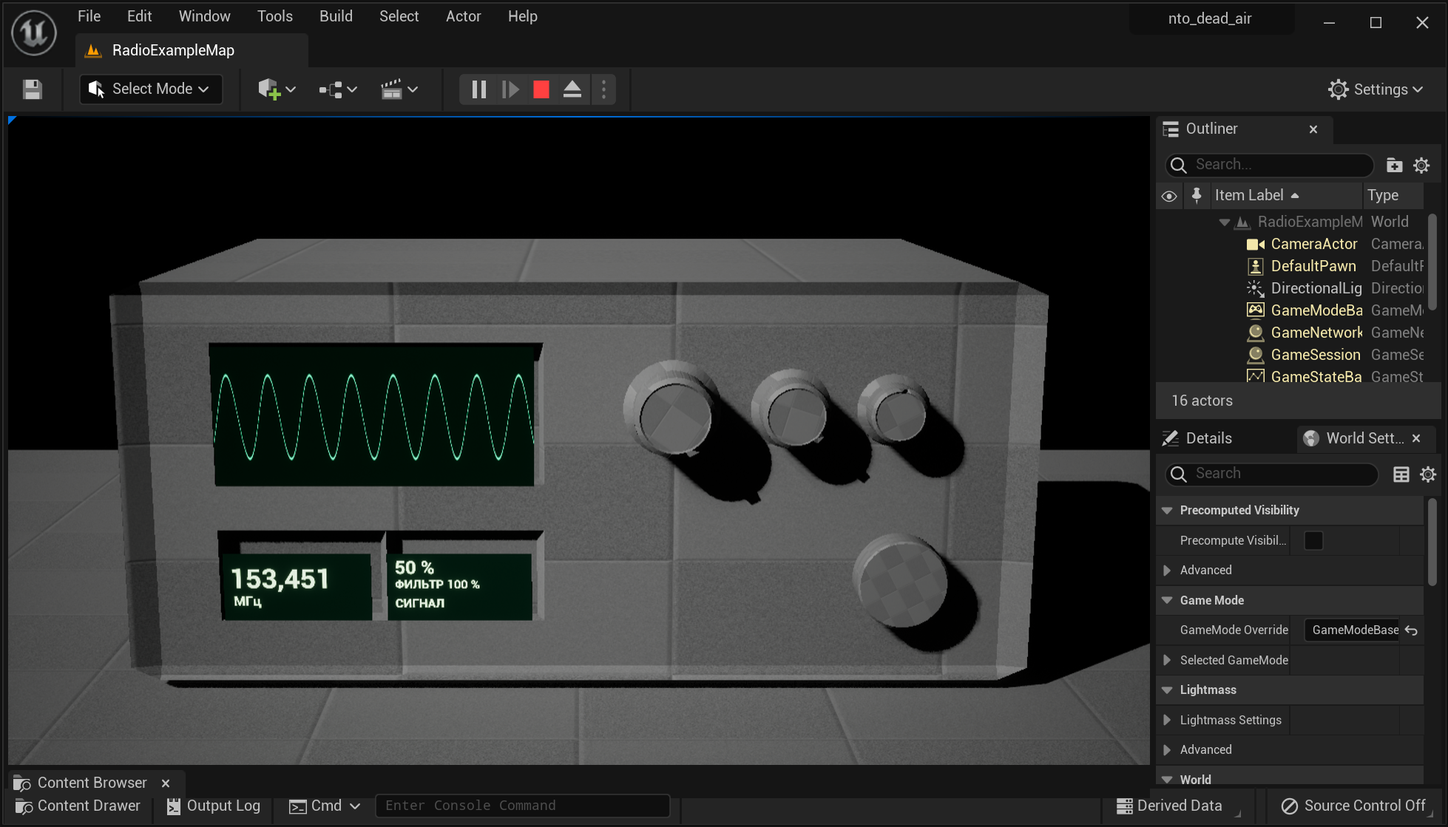
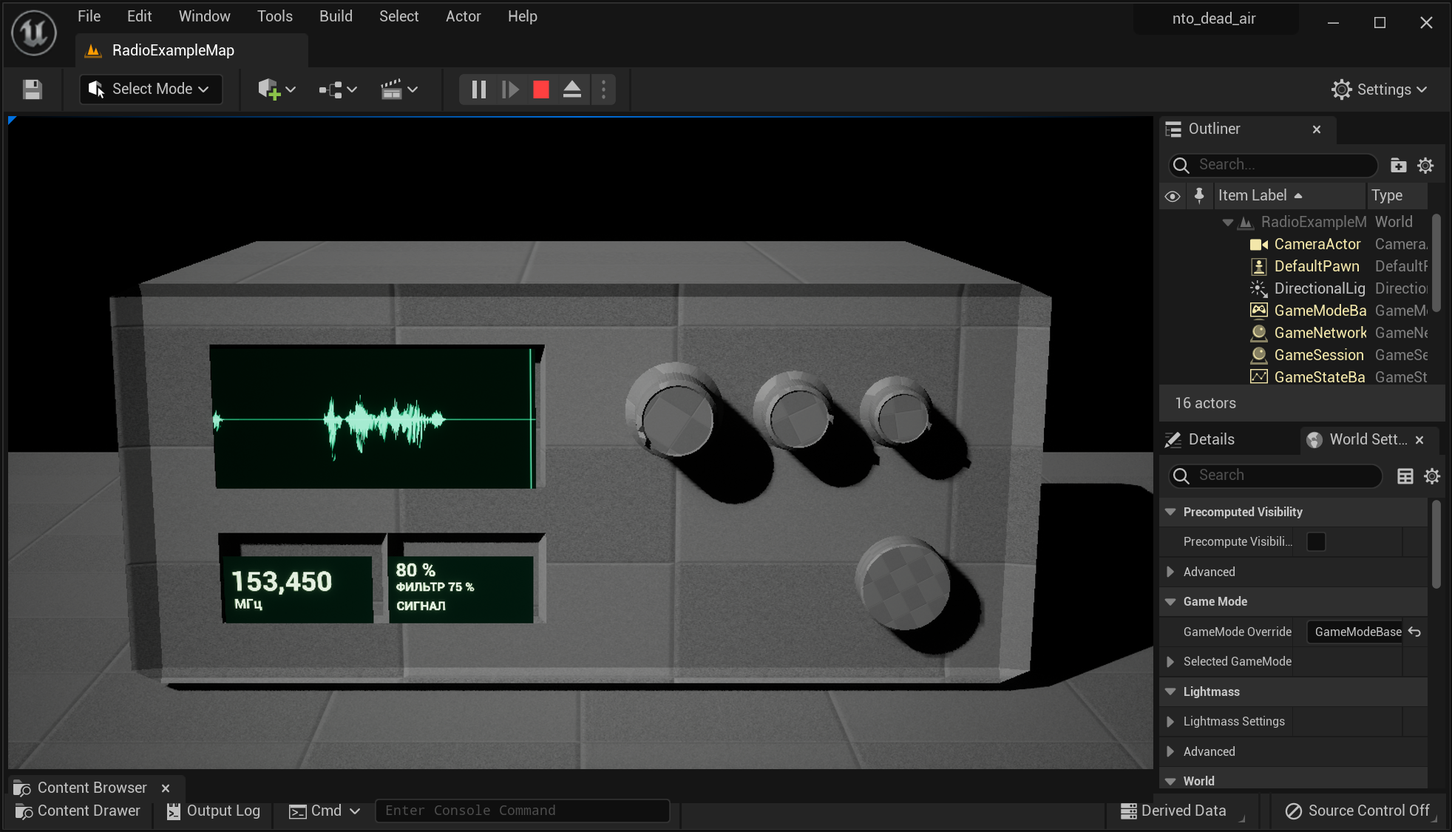
Уточнить радио: точный поворот, фильтр по сигналу и непрерывный эфир
Снижена чувствительность значений с поворотом мешей 1:1; центр ввода перенесён на лицевую крышку. Фильтр заблокирован без захвата станции. На сигнале отображается бегущая min/max-осциллограмма PCM-записи, синхронизированная с OnAudioPlaybackPercent.

Эфир запускается однократно и идёт при перенастройке/OFF; приёмник меняет только уровни. Обновлены инструкция Славе и снимок.

Проверено в UE 5.0.3: 23 проверки сохранённого Blueprint, 11 проверок реального воспроизведения в PIE и круговые жесты мышью. Windows-сборка не проверялась.

diff --git a/Tools/RadioBuilder/Source/RadioBuilder/Private/RadioBuilder.cpp b/Tools/RadioBuilder/Source/RadioBuilder/Private/RadioBuilder.cpp
@@ -1,4 +1,11 @@
 #include "CoreMinimal.h"
+#include "Audio.h"
+#include "Engine/Texture2D.h"
+#include "Misc/FileHelper.h"
+#include "Misc/Paths.h"
+#include "Materials/MaterialExpressionTextureSample.h"
+#include "Materials/MaterialExpressionAppendVector.h"
+#include "Materials/MaterialExpressionLinearInterpolate.h"
 #include "Materials/Material.h"
 #include "Materials/MaterialInstanceDynamic.h"
 #include "Materials/MaterialExpressionConstant.h"
@@ -104,6 +111,6 @@ UTextBlock* Label(UCanvasPanel* Canvas,const TCHAR* Name,FString Value,float X,f
 }
 #include "RadioFinal.inl"
 class FRadioBuilderModule : public IModuleInterface {
-public: void StartupModule() override { if(FParse::Param(FCommandLine::Get(),TEXT("RadioFinal"))||FParse::Param(FCommandLine::Get(),TEXT("RadioPolish"))) { FTSTicker::GetCoreTicker().AddTicker(FTickerDelegate::CreateLambda([](float){ if(FParse::Param(FCommandLine::Get(),TEXT("RadioPolish")))FinalRadio::PolishGraphs(); else FinalRadio::Build(); FPlatformMisc::RequestExit(false); return false; }),2.f); } }
+public: void StartupModule() override { if(FParse::Param(FCommandLine::Get(),TEXT("RadioLiveVerify")))FTSTicker::GetCoreTicker().AddTicker(FTickerDelegate::CreateLambda([](float){return FinalRadio::VerifyLivePIE();}),.1f); if(FParse::Param(FCommandLine::Get(),TEXT("RadioFinal"))||FParse::Param(FCommandLine::Get(),TEXT("RadioPolish"))) { FTSTicker::GetCoreTicker().AddTicker(FTickerDelegate::CreateLambda([](float){ if(FParse::Param(FCommandLine::Get(),TEXT("RadioPolish")))FinalRadio::PolishGraphs(); else FinalRadio::Build(); FPlatformMisc::RequestExit(false); return false; }),2.f); } }
 };
 IMPLEMENT_MODULE(FRadioBuilderModule,RadioBuilder)

diff --git a/docs/TEAM_TASKS.md b/docs/TEAM_TASKS.md
@@ -20,14 +20,14 @@
 
 ### Ближайшее задание: проверить и закончить существующее радио
 
-**Обновление 19.11:** по уточнениям Doki переделан учебный образец в `Content/RadioExample`: удержание ЛКМ и круговое движение вокруг центра ручки вместо кликов по 5 кГц и линейного drag, радиоволна в верхнем окне, частота и громкость/фильтр/статус в нижних. Славе начать с карты и графов по разделу 11 [плана UE](UE5_ARCHITECTURE.md). Исходные `Radio_1`/`ThirdPersonMap` не заменены. Следующая работа Славы — перенести проверенную логику в основной маршрут и подключить первую квитанцию; весь рабочий цикл ещё не принят.
+**Обновление 19.11:** по уточнениям Doki переделан учебный образец в `Content/RadioExample`: удержание ЛКМ и круговое движение вокруг центра ручки вместо кликов по 5 кГц и линейного drag, сниженная чувствительность с поворотом 1:1, фильтр только при сигнале и бегущая осциллограмма реальной записи в верхнем окне, частота и громкость/фильтр/статус в нижних. Славе начать с карты и графов по разделу 11 [плана UE](UE5_ARCHITECTURE.md). Исходные `Radio_1`/`ThirdPersonMap` не заменены. Следующая работа Славы — перенести проверенную логику в основной маршрут и подключить первую квитанцию; весь рабочий цикл ещё не принят.
 
 Основа — [первая механика радио из текущей dev](https://github.com/Doki33935/DEAD-AIR/blob/1adb555845feca86aebab1025e70e5aebdfe26df/docs/RADIO_FIRST_TASK.md). Сначала показать этот результат отдельно от будущих почты и таймера.
 
 1. Открыть существующий `nto_dead_air.uproject` именно в **5.0.3**, проверить `ThirdPersonMap`, `Radio_1`, `test_char`, `main_wid`, `BPI_interface` и `Interact_face`: что уже работает, что не компилируется, где обрабатываются клики. Не создавать второй проект и не переименовывать ассеты только ради имён из плана UE.
-2. Проверить `button_1`: питание, индикатор, немедленная остановка речи и шума при OFF. Подключить `Tumbler_1` к дробной частоте 153400–153550 кГц через удержание ЛКМ и круговое движение мыши; отображение — в МГц с тремя знаками. Прежний кликовый шаг 5 кГц отменён Doki 19 ноября. Раскладка экрана и схема уже сделаны в образце.
+2. Проверить `button_1`: питание, индикатор, немедленное отключение звукового выхода при OFF с сохранением времени эфира. Подключить `Tumbler_1` к дробной частоте 153400–153550 кГц через удержание ЛКМ и круговое движение мыши; отображение — в МГц с тремя знаками. Прежний кликовый шаг 5 кГц отменён Doki 19 ноября. Раскладка экрана и схема уже сделаны в образце.
 3. Подключить одну передачу базы на 153450 кГц из данных и временный клип с номером 27. При уходе с канала речь не продолжает звучать как чистый приём; соседние частоты дают шум.
-4. По заданию из dev проверить отдельный `Radio_Volume_Knob` на карте. Перенести `SM_Radio_Volume` в компоненты `Radio_1` с сохранением привязки; удалять дублирующий актор только после проверки нового компонента. Громкость управляет речью и шумом. `Tumbler_2` теперь управляет фильтром речи 0–100%: перенести разделение голоса/помех из образца, проверить отсутствие перезапуска реплики при регулировке.
+4. По заданию из dev проверить отдельный `Radio_Volume_Knob` на карте. Перенести `SM_Radio_Volume` в компоненты `Radio_1` с сохранением привязки; удалять дублирующий актор только после проверки нового компонента. Громкость управляет речью и шумом. `Tumbler_2` теперь управляет фильтром речи 0–100%: перенести разделение голоса/помех из образца, проверить блокировку фильтра без сигнала и продолжение эфира после ухода с частоты/возврата и OFF/ON.
 5. Обеспечить приближение и возврат мышью. Проверить крайние частоты и повторные клики, питание во время фразы, громкость 0/максимум и возврат к радио. Показать маршрут: соседний канал → шум → 153,450 → «27» → уход с частоты → повтор вызова → OFF.
 
 **Передать Doki:** короткий показ в редакторе и Windows-сборке, commit и перечень исправных/непроверенных действий. После приёмки радио расширять до первой квитанции по шагу A. Наличие модели и Blueprint в Git ещё не закрывает это задание.

diff --git a/docs/RADIO_FIRST_TASK.md b/docs/RADIO_FIRST_TASK.md
@@ -2,13 +2,13 @@
 
 UE 5.0.3. Образец уже находится в `Content/RadioExample`: открыть `RadioExampleMap`, нажать Play. Актуальный разбор Blueprint, виджета, PNG и проверки — [раздел 11 плана UE](UE5_ARCHITECTURE.md#11-образец-радио-для-славы--управление-удержанием-лкм).
 
-По заданию Doki от 19 ноября ручки регулируются **круговым движением мыши вокруг центра при удержании ЛКМ**. Верхний ряд: частота / фильтр речи / громкость. Клики по 5 кГц, колесо и отдельная панель «−/+» из прежнего задания отменены. Встроенный экран уже показывает гладкую волну, частоту, громкость, фильтр и состояние приёма.
+По заданию Doki от 19 ноября ручки регулируются **круговым движением мыши вокруг центра при удержании ЛКМ**. Верхний ряд: частота / фильтр речи / громкость. Клики по 5 кГц, колесо и отдельная панель «−/+» из прежнего задания отменены. Чувствительность снижена с сохранением поворота 1:1; фильтр доступен только при захвате. При сигнале встроенный экран показывает бегущую осциллограмму самой записи, снизу — частоту, громкость, фильтр и состояние.
 
 Следующая работа Славы:
 
 1. Пройти проверку образца по разделу 11, затем перенести управление и виджет в существующий `Radio_1` на `ThirdPersonMap`. Сохранить исходные привязки всех деталей; отдельный `Radio_Volume_Knob` заменять компонентом только после проверки.
 2. Добавить вход к прибору и возврат к общему виду мышью. Не дублировать состояние между основным актором и виджетом.
-3. Перенести станцию 153,450 МГц и клипы в данные, чтобы следующая передача добавлялась строкой. Сохранить раздельные речь/помехи: фильтр меняет только слой помех, громкость — оба; регулировка не перезапускает речь.
+3. Перенести станцию 153,450 МГц и клипы в данные, чтобы следующая передача добавлялась строкой. Сохранить раздельные речь/помехи: фильтр меняет только слой помех, громкость — оба; регулировка не перезапускает речь. Эфир запускается один раз: уход с частоты и OFF лишь закрывают выход, возврат открывает текущий момент. Перенести также min/max-текстуру записи и длительность, связанные с AudioPhase.
 4. Соединить услышанный номер **27** с журналом и первой квитанцией. Затем показать цельный путь: приблизиться → питание → настройка → фильтр → услышать номер → отчёт → квитанция → общий вид.
 
 Исходные `Radio_1` и `ThirdPersonMap` образцом не заменены. ПК, архив и таймер остаются отдельным этапом. Проверка одной тестовой сцены не означает готовность всего игрового цикла.

diff --git a/docs/MECHANICS.md b/docs/MECHANICS.md
@@ -28,11 +28,11 @@
 2. Кликнуть радио, приблизить камеру.
 3. По уточнению Doki от 19 ноября: зажать ЛКМ у края ручки и вести курсор по окружности вокруг её центра: по часовой стрелке для увеличения, против — для уменьшения. Настройка плавная, без кликовых скачков по 0,005 МГц; учебный диапазон 153,400–153,550 МГц. Отпускание ЛКМ прекращает регулировку.
 4. Вблизи нужного канала слышен шум и куски речи, в точной позиции — целая фраза. Сама громкость не заменяет правильную настройку.
-5. Если слышен низкий гул, повернуть фильтр речи. Он убирает этот компонент, не «расшифровывает» любые слова и не удаляет сущность.
+5. Только после захвата сигнала становится доступен фильтр речи. Если слышен низкий гул, повернуть его. Он убирает этот компонент, не «расшифровывает» любые слова и не удаляет сущность.
 6. Запустить запись на ПК либо внести услышанное в журнал.
 7. Для повторного прослушивания вызвать повтор/воспроизвести запись. Один пропущенный вызов не блокирует игру.
 
-Верхнее окно радио показывает радиоволну: одна гладкая линия без вторичной ряби; частота меняет количество колебаний, фильтр — амплитуду. Нижнее левое окно показывает частоту числом, соседнее — громкость, процент фильтра и статус захвата. Все показания встроены в модель.
+Верхнее окно при поиске показывает гладкую условную волну, а после захвата — бегущую осциллограмму самой записи. Текущая позиция справа, последние три секунды уходят влево. Перенастройка не останавливает и не перематывает эфир: после возвращения слышно продолжение. Фильтр при поиске заблокирован и не применяется; его последняя настройка сохраняется. Нижнее левое окно показывает частоту числом, соседнее — громкость, процент фильтра и статус захвата. Все показания встроены в модель.
 
 Для первой версии достаточно подготовленных чистой/зашумлённой дорожек и отдельного гула. Физику радиосигнала не рассчитываем. В записи сохраняем услышанное состояние, а не автоматически идеальный вариант.
 

diff --git a/docs/PROJECT_CONTEXT.md b/docs/PROJECT_CONTEXT.md
@@ -16,7 +16,7 @@
 
 **Текущее задание на реализацию, 19.11.2026:** Doki разрешил создание образца на Blueprint/UMG, исправление управления и push в `dev`. В `Content/RadioExample` находятся BP_RadioExample, WBP_RadioDisplay, материал волны, карта и временный звук. Установленный редактор — **5.0.3**, подтверждён Build.version.
 
-**Последнее уточнение Doki:** вращать ручки круговым движением мыши вокруг центра при зажатой ЛКМ. Линейный drag и клики по 5 кГц отменены. Верхний ряд: частота / фильтр речи / громкость. Фильтр ослабляет отдельную дорожку помех, не перезапускает голос. Верхнее окно показывает одну гладкую волну без вторичной ряби; снизу — частота, громкость, фильтр и статус. Старый внешний WBP_RadioPanel удалён. Трансформы деталей взяты из исходной карты; Radio_1, ThirdPersonMap и меши Ярика сохранены.
+**Последнее уточнение Doki:** вращать ручки круговым движением мыши вокруг центра при зажатой ЛКМ. Линейный drag и клики по 5 кГц отменены. Верхний ряд: частота / фильтр речи / громкость. Чувствительность снижена, центр ввода находится на лицевой крышке; угол меша следует углу мыши 1:1. Фильтр доступен только при пойманном сигнале. Эфир запускается один раз и продолжается при уходе с частоты/OFF; возврат открывает текущий момент. В верхнем окне при захвате бежит осциллограмма самой записи по реальной позиции аудио; при поиске — гладкая условная волна. Снизу — частота, громкость, фильтр и статус. Старый внешний WBP_RadioPanel удалён. Трансформы деталей взяты из исходной карты; Radio_1, ThirdPersonMap и меши Ярика сохранены.
 
 Результаты текущей проверки и инструкция Славе — раздел 11 плана UE. Результаты прежних кликовой и линейной версий не подменяют приёмку кругового управления. Это образец одной передачи, не полный игровой цикл; упакованная Windows-сборка не проверялась.
 

diff --git a/README.md b/README.md
@@ -4,7 +4,7 @@
 
 **Unreal Engine 5.0.3 · демо 20–30 минут · готовность 29.11.2026 · сдача продукта 01.12.2026.**
 
-На GitHub в `dev` есть ранний UE-прототип и модель радио Ярика. Добавлен пример радио на Blueprints/UMG: открыть `nto_dead_air/nto_dead_air.uproject` в **UE 5.0.3**, карту `Content/RadioExample/RadioExampleMap` и нажать Play. Ручки вращаются **с зажатой ЛКМ круговым движением мыши вокруг центра** (частота / фильтр речи / громкость), верхнее окно показывает радиоволну, снизу расположены частота, громкость, фильтр и статус приёма. Отдельной панели поверх камеры нет. [Разбор Blueprint и виджета для Славы](docs/UE5_ARCHITECTURE.md#11-образец-радио-для-славы--управление-удержанием-лкм). Перед открытием после получения изменений выполнить `git lfs pull`. Полный игровой цикл и упакованная Windows-сборка ещё не приняты.
+На GitHub в `dev` есть ранний UE-прототип и модель радио Ярика. Добавлен пример радио на Blueprints/UMG: открыть `nto_dead_air/nto_dead_air.uproject` в **UE 5.0.3**, карту `Content/RadioExample/RadioExampleMap` и нажать Play. Ручки вращаются **с зажатой ЛКМ круговым движением мыши вокруг центра** (частота / фильтр речи / громкость), чувствительность снижена, верхнее окно при захвате показывает бегущую осциллограмму записи, снизу расположены частота, громкость, фильтр и статус приёма. Фильтр доступен после захвата сигнала; эфир продолжается при уходе с частоты и возвращается без перемотки. Отдельной панели поверх камеры нет. [Разбор Blueprint и виджета для Славы](docs/UE5_ARCHITECTURE.md#11-образец-радио-для-славы--управление-удержанием-лкм). Перед открытием после получения изменений выполнить `git lfs pull`. Полный игровой цикл и упакованная Windows-сборка ещё не приняты.
 
 ## Начать здесь
 
